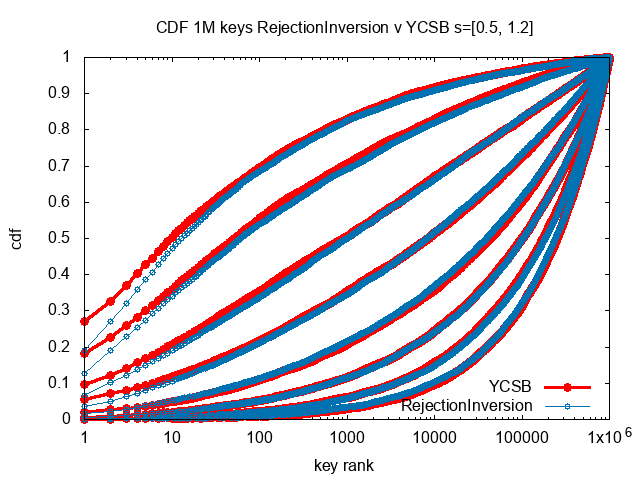
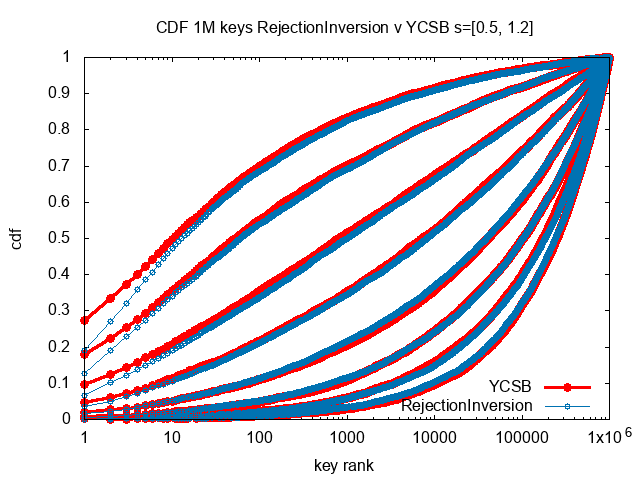
debug

diff --git a/frequency.go b/frequency.go
@@ -2,6 +2,9 @@ package main
 
 import (
 	"fmt"
+	"math/rand"
+	"time"
+
 	//"math/rand"
 	"os"
 	"sort"
@@ -41,9 +44,9 @@ func main() {
 	skews := []float64{0.5, 0.6, 0.7, 0.8, 0.9, 0.99, 1.1, 1.2, 1.3, 1.4, 1.5}
 
 	for _, s := range skews {
-		//random := rand.New(rand.NewSource(time.Now().UnixNano()))
-		//zipf, _ := NewYCSBZipfGenerator(random, 0, 1000000, s, false)
-		zipf := NewRejectionInversionGenerator(1000000, s)
+		random := rand.New(rand.NewSource(time.Now().UnixNano()))
+		zipf, _ := NewYCSBZipfGenerator(random, 0, 1000000, s, false)
+		//zipf := NewRejectionInversionGenerator(1000000, s)
 
 		hist := make(map[int]int)
 		total_accesses := 0
@@ -53,8 +56,8 @@ func main() {
 			for k := 0; k < 1; k++ {
 				ok := false
 				for !ok {
-					ok = set.Add(int(zipf.sample()))
-					//ok = set.Add(int(zipf.Uint64()))
+					//ok = set.Add(int(zipf.sample()))
+					ok = set.Add(int(zipf.Uint64Jenn(nil)))
 				}
 			}
 
